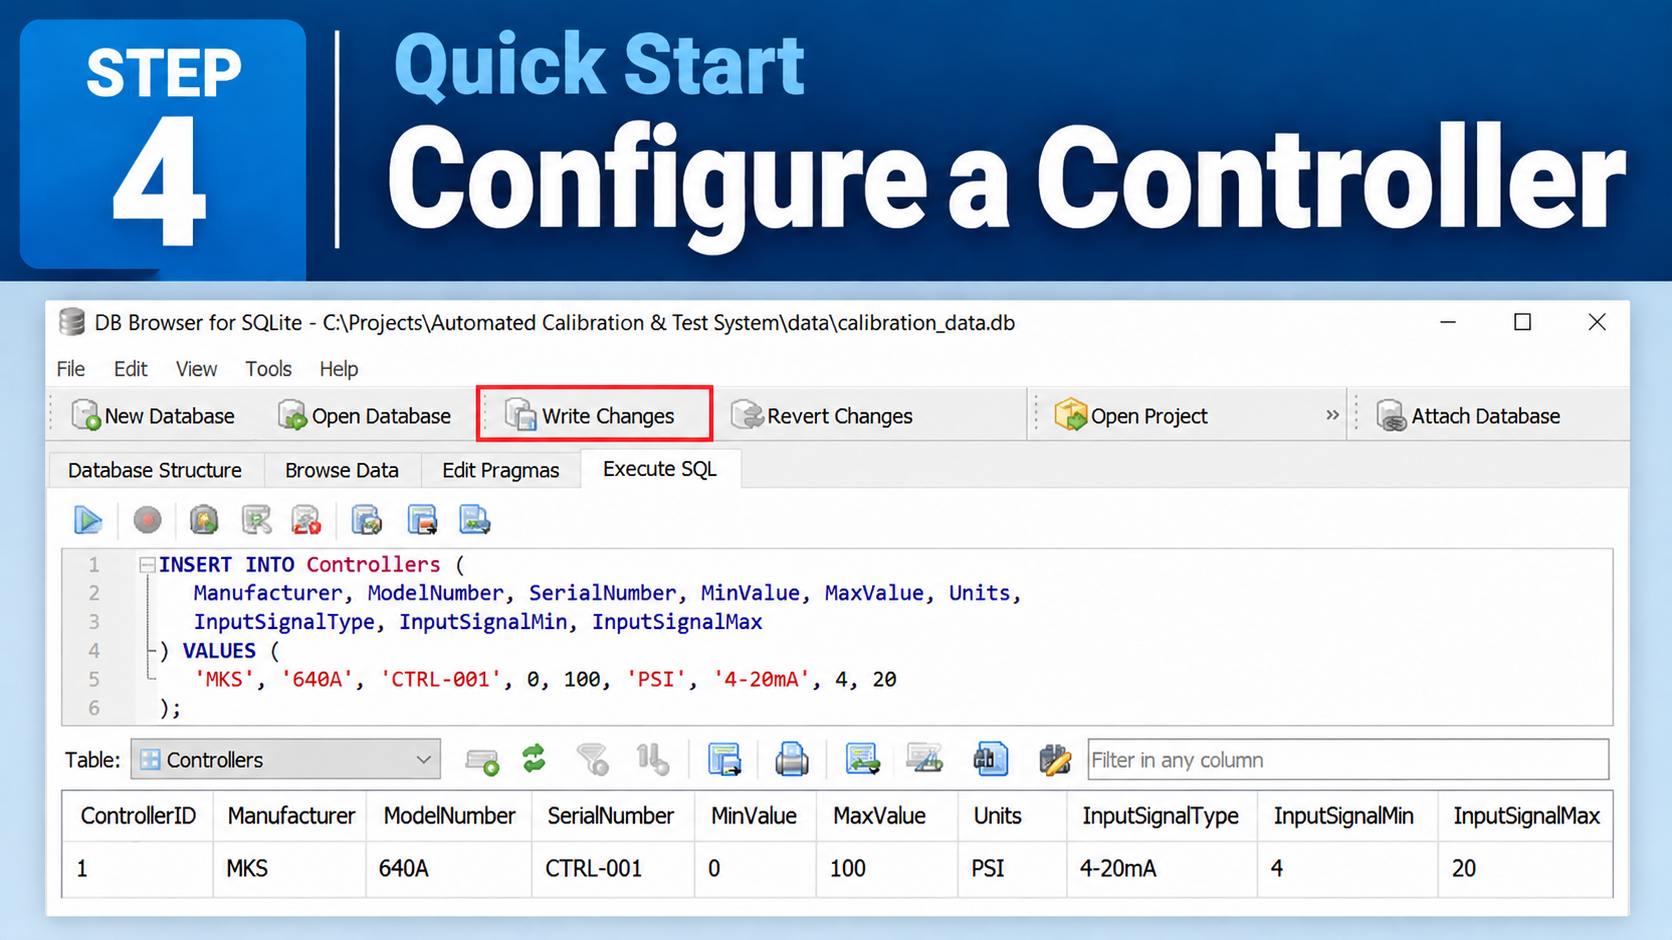
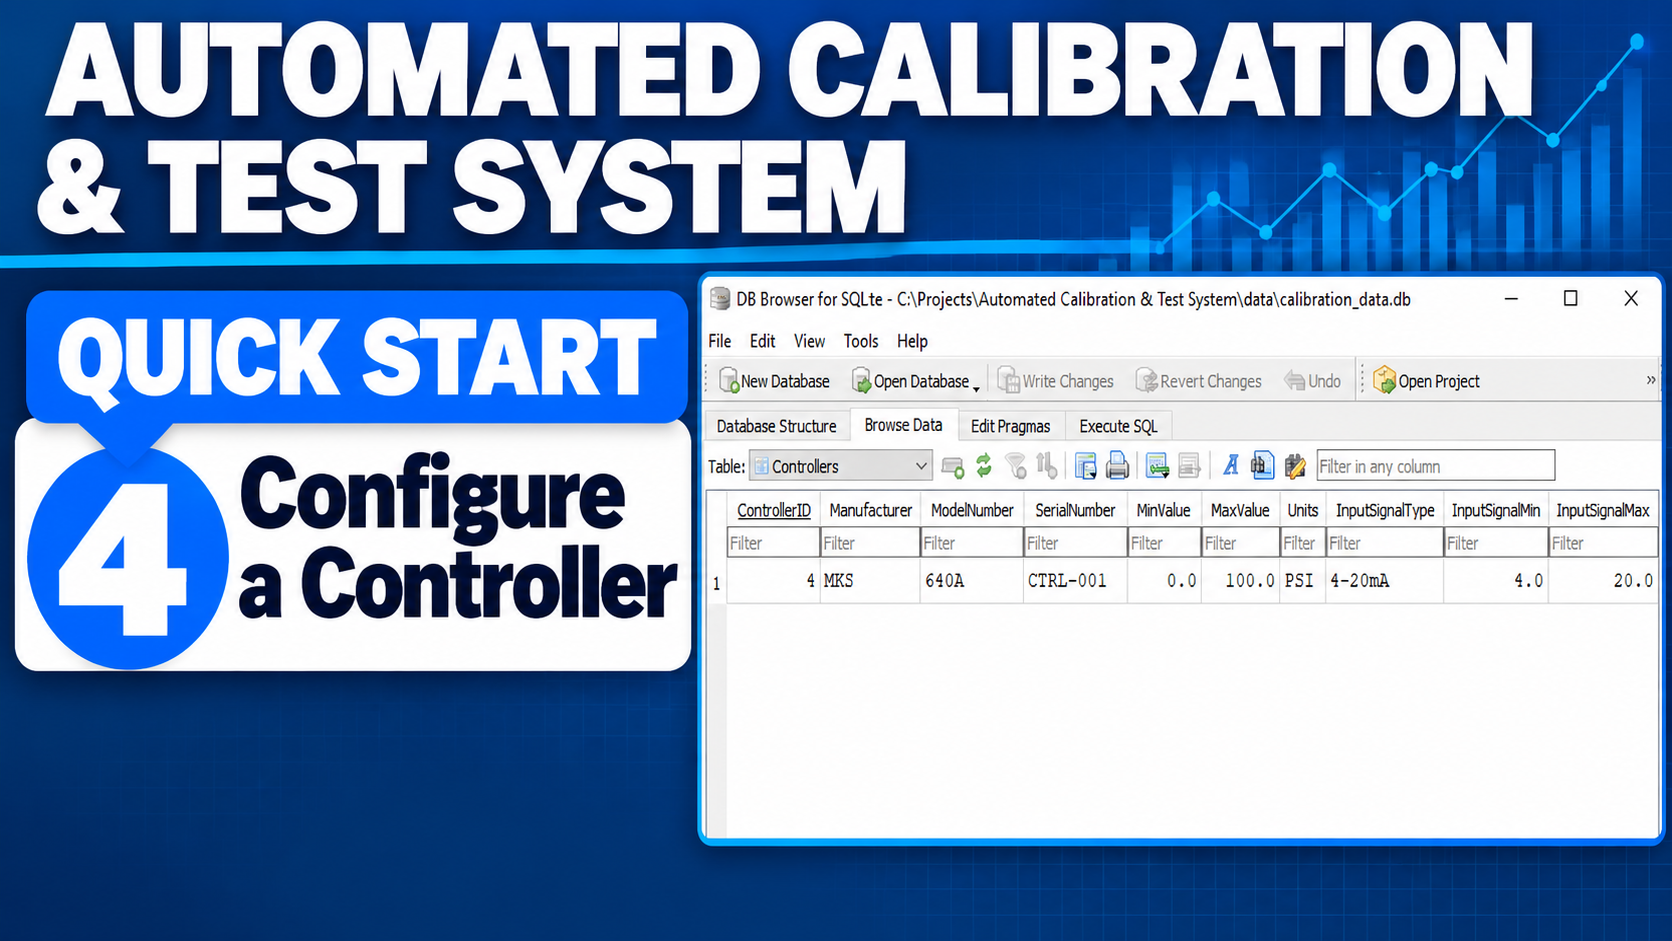
docs(readme): add calibration results review quick start step
Documented the calibration results review workflow and performance metrics

Added the Review Calibration Results Quick Start video description and keywords

Added the Review Calibration Results video thumbnail

diff --git a/README.md b/README.md
@@ -296,9 +296,9 @@ Select:
 
 * **Model Number**
 * **Serial Number**
-* **Calibration session date/time**
+* **Date/Time**
 
-The selected calibration session includes its associated test cycles. The analysis results include:
+The selected calibration session includes its associated test cycles. Select Generate Results. The analysis results include:
 
 * **Accuracy %FS**
 * **BFSL Linearity %FS**
@@ -306,7 +306,9 @@ The selected calibration session includes its associated test cycles. The analys
 * **Repeatability %FS**
 * **Overall PASS/FAIL status**
 
-A detailed report can be generated for the selected calibration session and sensor.
+A detailed report is automatically generated for the selected calibration session and sensor.
+
+▶ **[Watch the Quick Start video: Review Calibration Results](https://www.youtube.com/watch?v=Ff5iCqyaV9M)**
 
 [⬆ Back to Top](#top)
 
